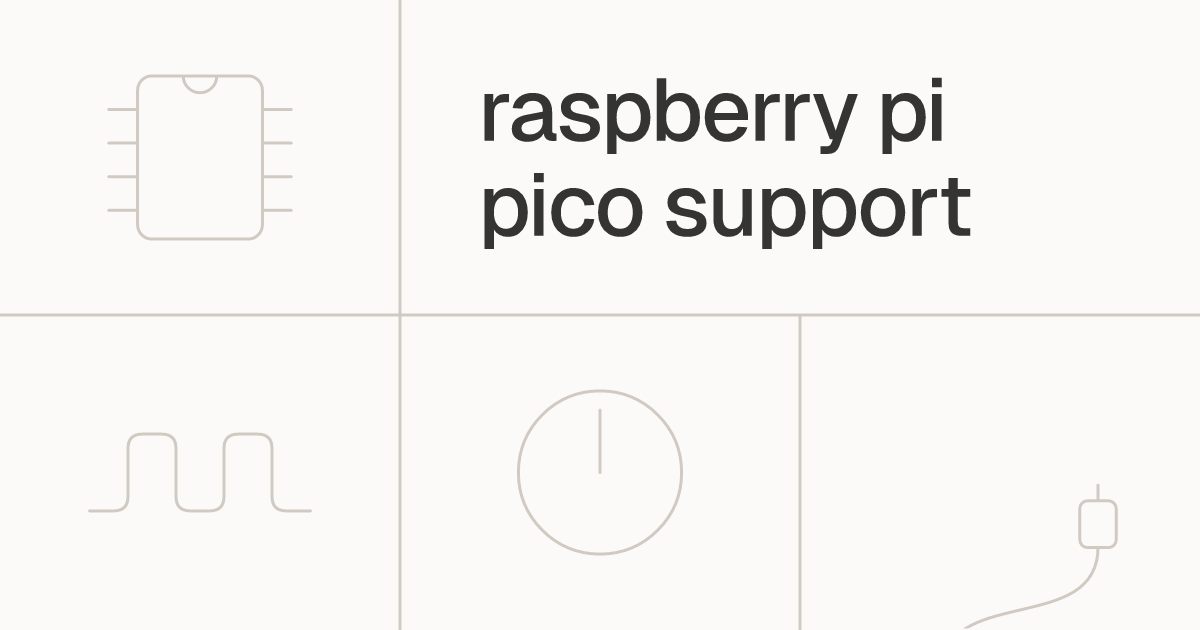
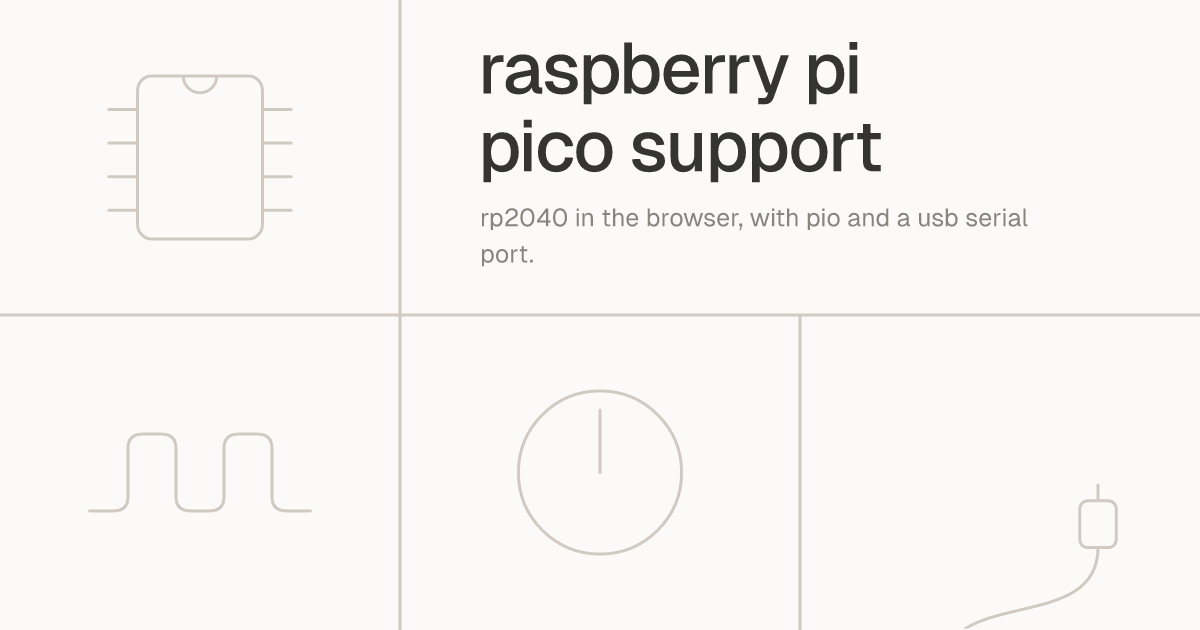
feat: a small description under the og title (#23)

Changed region(s): [[0.4008, 0.0603, 0.8633, 0.4222]]

diff --git a/brand/kit/index.html b/brand/kit/index.html
@@ -20,7 +20,7 @@ code{font-family:Geist Mono,ui-monospace,monospace;font-size:11px}
 <header><img src="logo/lockup-ink.svg"><p>the press kit. everything here is generated from <code>src/</code> and <code>tokens.json</code> by <code>pnpm -C brand build</code></p></header>
 <section><h2>logo</h2><div class="grid"><figure class="wide"><div class="img" style="background:#FBFAF9"><img src="logo/lockup-on-paper.png"></div><figcaption>lockup</figcaption></figure><figure class="wide"><div class="img" style="background:#343433"><img src="logo/lockup-on-ink.png"></div><figcaption>lockup on ink</figcaption></figure></div>
 <div class="grid" style="margin-top:18px"><figure class=""><div class="img" style="background:#fff"><img src="logo/lockup-ink.svg"></div><figcaption>lockup-ink.svg</figcaption></figure><figure class=""><div class="img" style="background:#343433"><img src="logo/lockup-paper.svg"></div><figcaption>lockup-paper.svg</figcaption></figure><figure class=""><div class="img" style="background:#fff"><img src="logo/lockup-stone.svg"></div><figcaption>lockup-stone.svg</figcaption></figure><figure class=""><div class="img" style="background:#343433"><img src="logo/lockup-white.svg"></div><figcaption>lockup-white.svg</figcaption></figure><figure class=""><div class="img" style="background:#fff"><img src="logo/mark-ink.svg"></div><figcaption>mark-ink.svg</figcaption></figure><figure class=""><div class="img" style="background:#343433"><img src="logo/mark-paper.svg"></div><figcaption>mark-paper.svg</figcaption></figure><figure class=""><div class="img" style="background:#fff"><img src="logo/mark-stone.svg"></div><figcaption>mark-stone.svg</figcaption></figure><figure class=""><div class="img" style="background:#343433"><img src="logo/mark-white.svg"></div><figcaption>mark-white.svg</figcaption></figure><figure class=""><div class="img" style="background:#fff"><img src="logo/wordmark-ink.svg"></div><figcaption>wordmark-ink.svg</figcaption></figure><figure class=""><div class="img" style="background:#343433"><img src="logo/wordmark-paper.svg"></div><figcaption>wordmark-paper.svg</figcaption></figure><figure class=""><div class="img" style="background:#fff"><img src="logo/wordmark-stone.svg"></div><figcaption>wordmark-stone.svg</figcaption></figure><figure class=""><div class="img" style="background:#343433"><img src="logo/wordmark-white.svg"></div><figcaption>wordmark-white.svg</figcaption></figure></div></section>
-<section><h2>colour</h2><div class="grid"><figure><div class="sw" style="background:#FBFAF9"></div><figcaption>paper<br><code>#FBFAF9</code></figcaption></figure><figure><div class="sw" style="background:#343433"></div><figcaption>ink<br><code>#343433</code></figcaption></figure><figure><div class="sw" style="background:#D1CAC2"></div><figcaption>stone<br><code>#D1CAC2</code></figcaption></figure><figure><div class="sw" style="background:#DFD9D3"></div><figcaption>stoneSoft<br><code>#DFD9D3</code></figcaption></figure><figure><div class="sw" style="background:#F6F4F2"></div><figcaption>mist<br><code>#F6F4F2</code></figcaption></figure><figure><div class="sw" style="background:#FFFFFF"></div><figcaption>white<br><code>#FFFFFF</code></figcaption></figure></div>
+<section><h2>colour</h2><div class="grid"><figure><div class="sw" style="background:#FBFAF9"></div><figcaption>paper<br><code>#FBFAF9</code></figcaption></figure><figure><div class="sw" style="background:#343433"></div><figcaption>ink<br><code>#343433</code></figcaption></figure><figure><div class="sw" style="background:#D1CAC2"></div><figcaption>stone<br><code>#D1CAC2</code></figcaption></figure><figure><div class="sw" style="background:#DFD9D3"></div><figcaption>stoneSoft<br><code>#DFD9D3</code></figcaption></figure><figure><div class="sw" style="background:#F6F4F2"></div><figcaption>mist<br><code>#F6F4F2</code></figcaption></figure><figure><div class="sw" style="background:#8A847E"></div><figcaption>dim<br><code>#8A847E</code></figcaption></figure><figure><div class="sw" style="background:#FFFFFF"></div><figcaption>white<br><code>#FFFFFF</code></figcaption></figure></div>
 <div class="grid" style="margin-top:18px"><figure><div class="sw" style="background:#FFFFFF"></div><figcaption>code window<br><code>#FFFFFF</code></figcaption></figure><figure><div class="sw" style="background:#FAFAFA"></div><figcaption>code chrome<br><code>#FAFAFA</code></figcaption></figure><figure><div class="sw" style="background:#E8E8E8"></div><figcaption>code dot<br><code>#E8E8E8</code></figcaption></figure><figure><div class="sw" style="background:#919191"></div><figcaption>code title<br><code>#919191</code></figcaption></figure><figure><div class="sw" style="background:#B0B0B0"></div><figcaption>code line<br><code>#B0B0B0</code></figcaption></figure><figure><div class="sw" style="background:#24292E"></div><figcaption>code text<br><code>#24292E</code></figcaption></figure><figure><div class="sw" style="background:#D73A49"></div><figcaption>code keyword<br><code>#D73A49</code></figcaption></figure><figure><div class="sw" style="background:#6F42C1"></div><figcaption>code fn<br><code>#6F42C1</code></figcaption></figure><figure><div class="sw" style="background:#005CC5"></div><figcaption>code constant<br><code>#005CC5</code></figcaption></figure><figure><div class="sw" style="background:#032F62"></div><figcaption>code string<br><code>#032F62</code></figcaption></figure><figure><div class="sw" style="background:#8A8A8A"></div><figcaption>code comment<br><code>#8A8A8A</code></figcaption></figure></div></section>
 <section><h2>parts</h2><div class="grid"><figure class=""><div class="img" style="background:#FBFAF9"><img src="pictos/blink.svg"></div><figcaption>blink</figcaption></figure><figure class=""><div class="img" style="background:#FBFAF9"><img src="pictos/bolt.svg"></div><figcaption>bolt</figcaption></figure><figure class=""><div class="img" style="background:#FBFAF9"><img src="pictos/button.svg"></div><figcaption>button</figcaption></figure><figure class=""><div class="img" style="background:#FBFAF9"><img src="pictos/chip.svg"></div><figcaption>chip</figcaption></figure><figure class=""><div class="img" style="background:#FBFAF9"><img src="pictos/knob.svg"></div><figcaption>knob</figcaption></figure><figure class=""><div class="img" style="background:#FBFAF9"><img src="pictos/led.svg"></div><figcaption>led</figcaption></figure><figure class=""><div class="img" style="background:#FBFAF9"><img src="pictos/proof.svg"></div><figcaption>proof</figcaption></figure><figure class=""><div class="img" style="background:#FBFAF9"><img src="pictos/resistor.svg"></div><figcaption>resistor</figcaption></figure><figure class=""><div class="img" style="background:#FBFAF9"><img src="pictos/servo.svg"></div><figcaption>servo</figcaption></figure><figure class=""><div class="img" style="background:#FBFAF9"><img src="pictos/wire.svg"></div><figcaption>wire</figcaption></figure></div></section>
 <section><h2>og</h2><div class="grid"><figure class="wide"><div class="img" style="background:#fff"><img src="og/code-test.png"></div><figcaption>code-test.png</figcaption></figure><figure class="wide"><div class="img" style="background:#fff"><img src="og/code.png"></div><figcaption>code.png</figcaption></figure><figure class="wide"><div class="img" style="background:#fff"><img src="og/docs.png"></div><figcaption>docs.png</figcaption></figure><figure class="wide"><div class="img" style="background:#fff"><img src="og/home.png"></div><figcaption>home.png</figcaption></figure><figure class="wide"><div class="img" style="background:#fff"><img src="og/pico-support.png"></div><figcaption>pico-support.png</figcaption></figure><figure class="wide"><div class="img" style="background:#fff"><img src="og/release.png"></div><figcaption>release.png</figcaption></figure></div></section>
